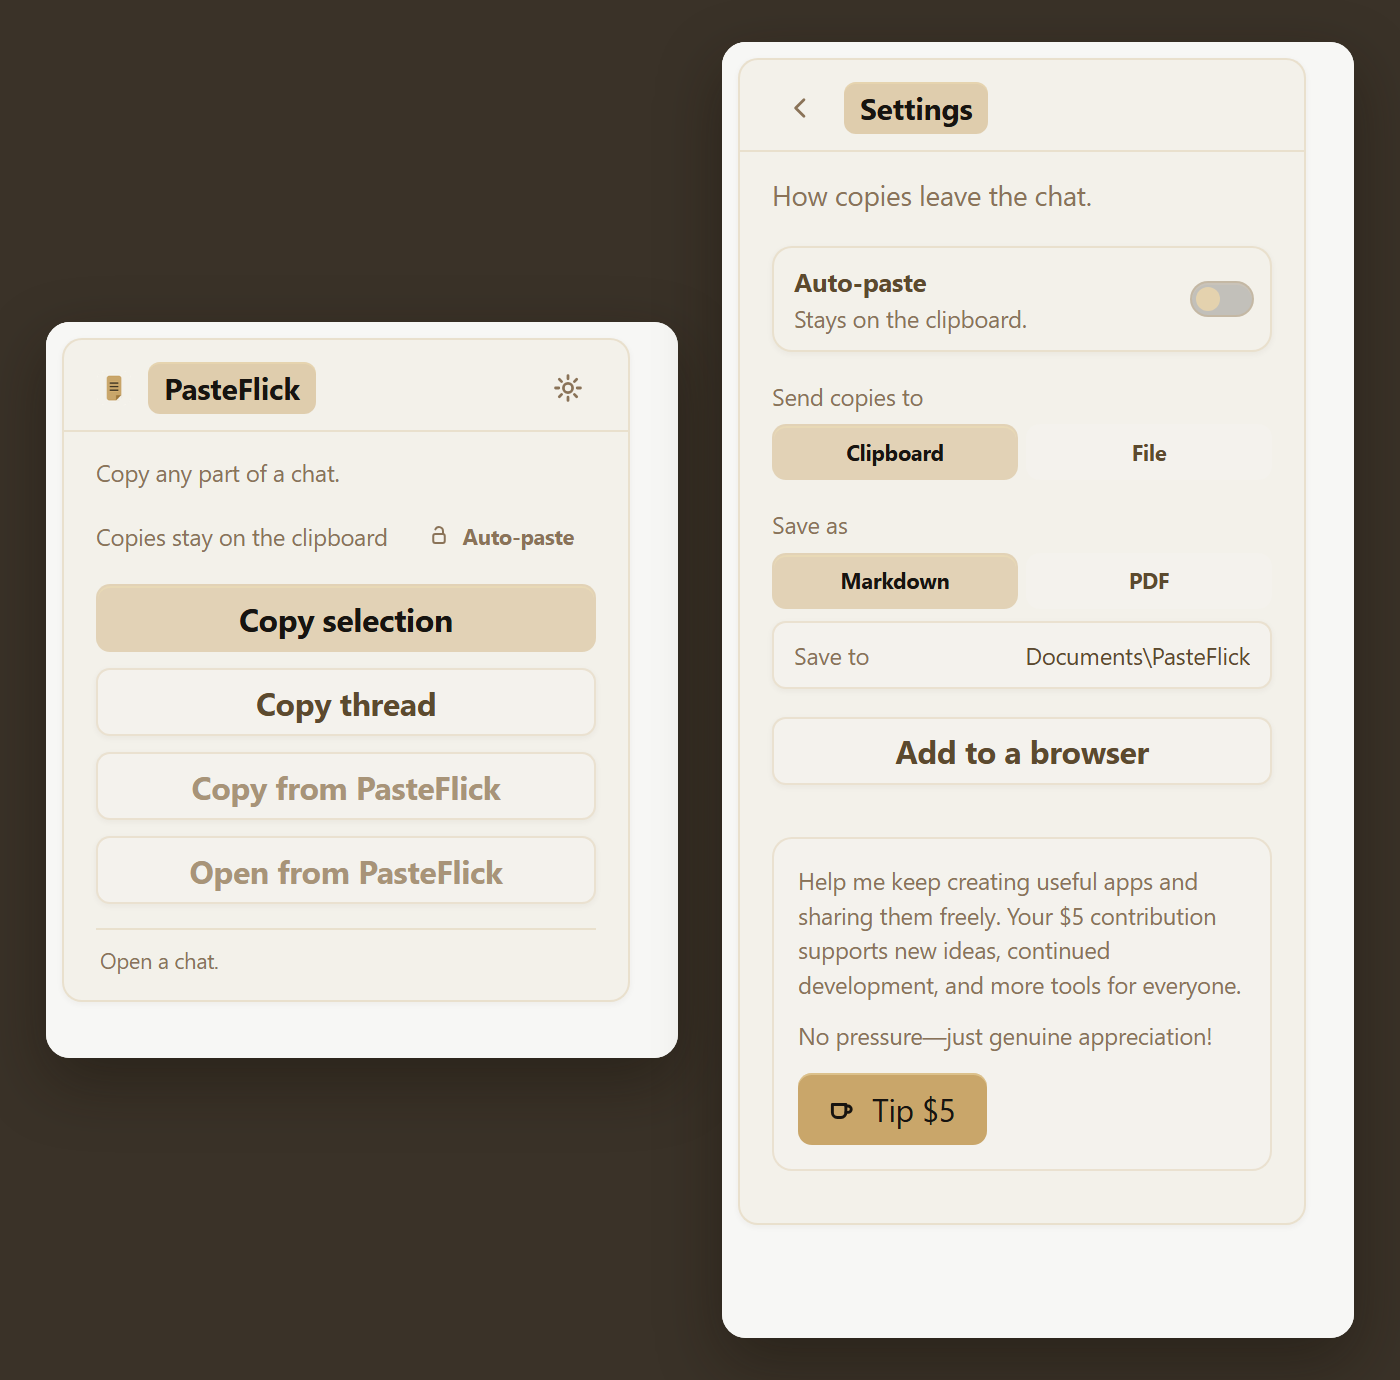
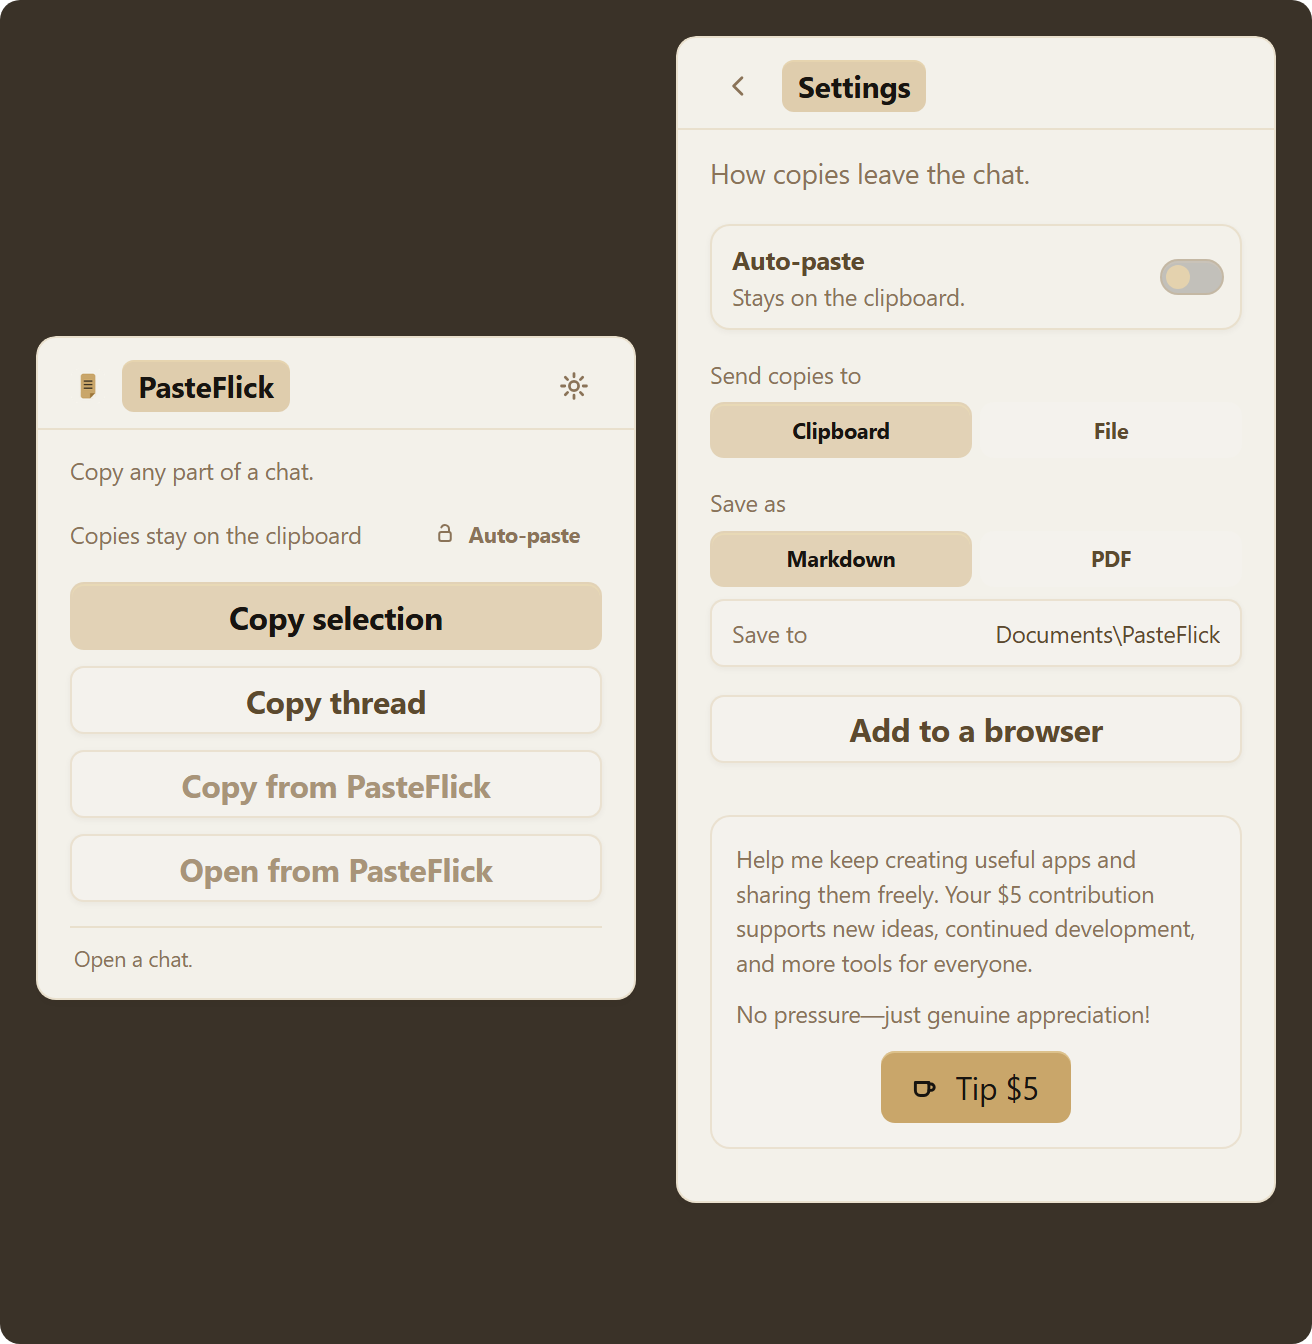
Show a cream paper chat instead of a ChatGPT lookalike, and keep the photos on GitHub in sync.

diff --git a/testbed/mock-chatgpt.html b/testbed/mock-chatgpt.html
@@ -110,6 +110,93 @@
         padding-left: 168px;
         max-width: 720px;
       }
+      html.shot,
+      html.shot body,
+      html.shot .layout,
+      html.shot .thread {
+        background: #f7f7f5;
+        color: #171410;
+        font-family: "Segoe UI Variable Text", "Segoe UI", system-ui, sans-serif;
+        letter-spacing: -0.011em;
+      }
+      html.shot .page-head {
+        display: none !important;
+      }
+      html.shot h1 {
+        margin: 0 0 18px;
+        font-size: 15px;
+        font-weight: 650;
+        letter-spacing: -0.02em;
+        color: #5c4a2e;
+      }
+      html.shot .msg {
+        max-width: 520px;
+        margin: 10px 0;
+        padding: 12px 14px;
+        border-radius: 10px;
+        border: 1px solid rgba(201, 166, 106, 0.22);
+        box-shadow: 0 1px 3px rgba(50, 40, 20, 0.05);
+        line-height: 1.45;
+      }
+      html.shot .msg.user {
+        background: color-mix(in srgb, #c9a66a 12%, #f7f7f5);
+        color: #171410;
+      }
+      html.shot .msg.assistant {
+        background: #f3f1ea;
+        border: 1px solid rgba(201, 166, 106, 0.22);
+        color: #5c4a2e;
+      }
+      html.shot .role {
+        display: inline-block;
+        margin: 0 0 8px;
+        padding: 2px 6px;
+        font: 650 10px/1.2 "Segoe UI Variable Text", "Segoe UI", system-ui, sans-serif;
+        letter-spacing: -0.01em;
+        text-transform: none;
+        color: #171410;
+        border-radius: 6px;
+        background: rgba(201, 166, 106, 0.48);
+        box-shadow: inset 0 1px 0 rgba(244, 226, 180, 0.35);
+      }
+      html.shot .msg a {
+        color: #5c4a2e;
+      }
+      html.shot .doc-card,
+      html.shot .gpt-file,
+      html.shot .gpt-code-file,
+      html.shot .diagram,
+      html.shot table,
+      html.shot pre,
+      html.shot [data-testid="file-attachment"],
+      html.shot [data-pasteflick="test-leak"],
+      html.shot .msg:not([data-message-id="msg-user-1"]):not([data-message-id="msg-assistant-1"]) {
+        display: none !important;
+      }
+      html.shot-chip,
+      html.shot-chip body,
+      html.shot-chip .layout,
+      html.shot-chip .thread {
+        margin: 0;
+        padding: 0;
+        min-height: 100%;
+        background: #3a3228 !important;
+      }
+      html.shot-chip .sidebar,
+      html.shot-chip .toolbar,
+      html.shot-chip .hint,
+      html.shot-chip #log,
+      html.shot-chip .page-head,
+      html.shot-chip h1,
+      html.shot-chip .msg {
+        display: none !important;
+      }
+      html.shot-chip #pasteflick-dock-host {
+        position: fixed !important;
+        inset: 0;
+        width: 100% !important;
+        height: 100% !important;
+      }
       .doc-card {
         background: #ffffff;
         color: #111111;
@@ -329,7 +416,9 @@ Got it — copper lantern. Longer assistant reply for DOM scrape:
     </div>
 
     <script>
-      if (/[?&]shot=1/.test(location.search)) {
+      if (/[?&]shot=chip(?:&|$)/.test(location.search)) {
+        document.documentElement.classList.add("shot-chip");
+      } else if (/[?&]shot=1/.test(location.search)) {
         document.documentElement.classList.add("shot");
       }
       history.replaceState(
@@ -341,6 +430,62 @@ Got it — copper lantern. Longer assistant reply for DOM scrape:
     <script src="/extractor.js"></script>
     <script src="/pasteflick.js"></script>
     <script>
+      if (document.documentElement.classList.contains("shot")) {
+        const title = document.querySelector("h1");
+        if (title) title.textContent = "Friday update";
+        const user = document.querySelector("#selectable");
+        if (user) user.textContent = "Can you turn this into a short note I can paste into Slack?";
+        const assistant = document.querySelector('[data-message-id="msg-assistant-1"]');
+        if (assistant) {
+          const body = assistant.querySelector(":scope > div:not(.role)");
+          if (body) {
+            body.textContent =
+              "Shipped the chip under the chat title. Copy, Save, and Fling sit in one place, and the bookmark still marks where you left off.";
+          }
+        }
+        document.querySelectorAll(".msg.assistant .role").forEach((el) => {
+          el.textContent = "Assistant";
+        });
+        const markShot = (tries) => {
+          const host = document.getElementById("pasteflick-dock-host");
+          const mark =
+            host &&
+            host.shadowRoot &&
+            host.shadowRoot.querySelector('[data-pasteflick="mark"]');
+          if (mark) {
+            mark.click();
+            return;
+          }
+          if (tries < 20) setTimeout(() => markShot(tries + 1), 50);
+        };
+        setTimeout(() => markShot(0), 50);
+      }
+
+      if (document.documentElement.classList.contains("shot-chip")) {
+        const centerChip = (tries) => {
+          const host = document.getElementById("pasteflick-dock-host");
+          const root = host && host.shadowRoot;
+          const pin = root && root.querySelector('[data-pasteflick="pin"][data-kind="thread"]');
+          const silo = pin && pin.closest('[data-pasteflick="silo"]');
+          const stack = pin && pin.closest('[data-pasteflick="stack"]');
+          if (pin && silo && stack) {
+            root.querySelectorAll('[data-pasteflick="pin"][data-kind="message"]').forEach((el) => {
+              el.style.display = "none";
+            });
+            silo.style.left = "50%";
+            silo.style.top = "50%";
+            silo.style.width = "auto";
+            silo.style.height = "auto";
+            silo.style.transform = "translate(-50%, -50%)";
+            stack.style.position = "relative";
+            stack.style.top = "auto";
+            stack.style.left = "auto";
+            return;
+          }
+          if (tries < 30) setTimeout(() => centerChip(tries + 1), 50);
+        };
+        setTimeout(() => centerChip(0), 80);
+      }
 
       const logEl = document.getElementById("log");
       function log(text, kind) {

diff --git a/readme/capture_shots.py b/readme/capture_shots.py
@@ -36,31 +36,33 @@ class Handler(SimpleHTTPRequestHandler):
         if name == "shot-pair.html":
             html = """<!doctype html>
 <html><head><meta charset="utf-8"><style>
-html,body{margin:0;height:100%;background:#3a3228;}
+html,body{margin:0;height:100%;background:transparent;}
 .stage{
-  min-height:100%;
   box-sizing:border-box;
+  width:100%;
+  height:100%;
   display:flex;
   align-items:center;
   justify-content:center;
-  gap:22px;
-  padding:16px 18px;
+  gap:20px;
+  padding:12px;
+  background:#3a3228;
+  border-radius:10px;
 }
 iframe{
   border:0;
-  width:316px;
-  border-radius:12px;
+  width:300px;
+  border-radius:10px;
   overflow:hidden;
-  box-shadow:0 12px 32px rgba(20,14,8,.4);
-  background:#f7f7f5;
+  background:transparent;
 }
-.home{height:368px;}
-.settings{height:648px;}
+.home{height:336px;}
+.settings{height:636px;}
 </style></head>
 <body>
   <div class="stage">
-    <iframe class="home" src="/popup.html" title="Popup"></iframe>
-    <iframe class="settings" src="/popup-settings.html" title="Settings"></iframe>
+    <iframe class="home" src="/popup.html?shot=1" title="Popup"></iframe>
+    <iframe class="settings" src="/popup-settings.html?shot=1" title="Settings"></iframe>
   </div>
 </body></html>"""
             data = html.encode("utf-8")
@@ -74,36 +76,28 @@ iframe{
         if name == "shot-chip.html":
             html = """<!doctype html>
 <html><head><meta charset="utf-8"><style>
-html,body{margin:0;height:100%;background:#3a3228;}
+html,body{margin:0;height:100%;background:transparent;}
 .stage{
-  min-height:100%;
   box-sizing:border-box;
+  width:100%;
+  height:100%;
   display:flex;
   align-items:center;
   justify-content:center;
-  padding:16px;
-}
-.crop{
-  width:580px;
-  height:220px;
-  overflow:hidden;
-  border-radius:12px;
-  box-shadow:0 12px 32px rgba(20,14,8,.4);
-  background:#212121;
+  padding:12px;
+  background:#3a3228;
+  border-radius:10px;
 }
 iframe{
   border:0;
-  width:920px;
-  height:760px;
-  transform:scale(2.05);
-  transform-origin:0 36px;
+  width:200px;
+  height:120px;
+  background:#3a3228;
 }
 </style></head>
 <body>
   <div class="stage">
-    <div class="crop">
-      <iframe src="/mock-chatgpt.html?shot=1" title="PasteFlick chip"></iframe>
-    </div>
+    <iframe src="/mock-chatgpt.html?shot=chip" title="PasteFlick chip"></iframe>
   </div>
 </body></html>"""
             data = html.encode("utf-8")
@@ -116,27 +110,27 @@ iframe{
             return
         if name in {"shot-popup.html", "shot-settings.html", "shot-chat.html"}:
             if name == "shot-popup.html":
-                inner, h = "/popup.html", 368
+                inner, w, h = "/popup.html?shot=1", 300, 336
             elif name == "shot-settings.html":
-                inner, h = "/popup-settings.html", 648
+                inner, w, h = "/popup-settings.html?shot=1", 300, 636
             else:
-                inner, h = "/mock-chatgpt.html?shot=1", 720
-            w = 316 if "chat" not in name else 920
-            page_bg = "#3a3228"
-            frame_bg = "#f7f7f5" if "chat" not in name else "#212121"
+                inner, w, h = "/mock-chatgpt.html?shot=1", 880, 560
             html = f"""<!doctype html>
 <html><head><meta charset="utf-8"><style>
-html,body{{margin:0;height:100%;background:{page_bg};}}
+html,body{{margin:0;height:100%;background:transparent;}}
 .stage{{
-  min-height:100%;
   box-sizing:border-box;
+  width:100%;
+  height:100%;
   display:flex;
   align-items:center;
   justify-content:center;
-  padding:16px 18px;
+  padding:12px;
+  background:#3a3228;
+  border-radius:10px;
 }}
-iframe{{border:0;width:{w}px;height:{h}px;border-radius:12px;overflow:hidden;
-box-shadow:0 12px 32px rgba(20,14,8,.4);background:{frame_bg};}}
+iframe{{border:0;width:{w}px;height:{h}px;border-radius:10px;overflow:hidden;
+background:{"#f7f7f5" if "chat" in name else "transparent"};}}
 </style></head>
 <body><div class="stage"><iframe src="{inner}"></iframe></div></body></html>"""
             data = html.encode("utf-8")
@@ -149,6 +143,7 @@ box-shadow:0 12px 32px rgba(20,14,8,.4);background:{frame_bg};}}
             return
         if name == "popup-settings.html":
             html = (EXT / "popup.html").read_text(encoding="utf-8")
+            html = html.replace("<html lang=\"en\">", "<html lang=\"en\" class=\"shot\">", 1)
             html = html.replace('id="view-home"', 'id="view-home" hidden', 1)
             html = html.replace('id="view-settings" hidden', 'id="view-settings"', 1)
             data = html.encode("utf-8")
@@ -181,7 +176,10 @@ box-shadow:0 12px 32px rgba(20,14,8,.4);background:{frame_bg};}}
                 return
         if name in {"popup.html", "setup.html"}:
             path = EXT / name
-            data = path.read_bytes()
+            html = path.read_text(encoding="utf-8")
+            if name == "popup.html" and "shot=1" in self.path:
+                html = html.replace("<html lang=\"en\">", "<html lang=\"en\" class=\"shot\">", 1)
+            data = html.encode("utf-8")
             self.send_response(200)
             self.send_header("Content-Type", "text/html; charset=utf-8")
             self.send_header("Cache-Control", "no-store")
@@ -228,11 +226,11 @@ def main() -> None:
     time.sleep(0.2)
     base = f"http://127.0.0.1:{port}"
     try:
-        shot(f"{base}/shot-chip.html", OUT / "chip.png", 620, 260, "FF3A3228")
-        shot(f"{base}/shot-pair.html", OUT / "windows.png", 700, 690, "FF3A3228")
-        shot(f"{base}/shot-popup.html", OUT / "popup.png", 360, 410, "FF3A3228")
-        shot(f"{base}/shot-settings.html", OUT / "settings.png", 360, 690, "FF3A3228")
-        shot(f"{base}/shot-chat.html", OUT / "chat.png", 960, 760, "FF3A3228")
+        shot(f"{base}/shot-chip.html", OUT / "chip.png", 224, 144, "00000000")
+        shot(f"{base}/shot-pair.html", OUT / "windows.png", 656, 672, "00000000")
+        shot(f"{base}/shot-popup.html", OUT / "popup.png", 324, 360, "00000000")
+        shot(f"{base}/shot-settings.html", OUT / "settings.png", 324, 660, "00000000")
+        shot(f"{base}/shot-chat.html", OUT / "chat.png", 904, 584, "00000000")
     finally:
         httpd.shutdown()
     print("ok")

diff --git a/README.md b/README.md
@@ -7,11 +7,11 @@
 </p>
 
 <p align="center">
-  <img src="readme/shots/chip.png" width="680" alt="PasteFlick chip — Copy, Save, and Fling under the chat title">
+  <img src="readme/shots/chip.png" width="280" alt="PasteFlick chip — Copy, Save, and Fling">
 </p>
 
 <p align="center">
-  <img src="readme/shots/chat.png" width="680" alt="PasteFlick chip and bookmark pins on a ChatGPT thread">
+  <img src="readme/shots/chat.png" width="680" alt="PasteFlick chip and bookmark pins on a chat">
 </p>
 
 <p align="center">
